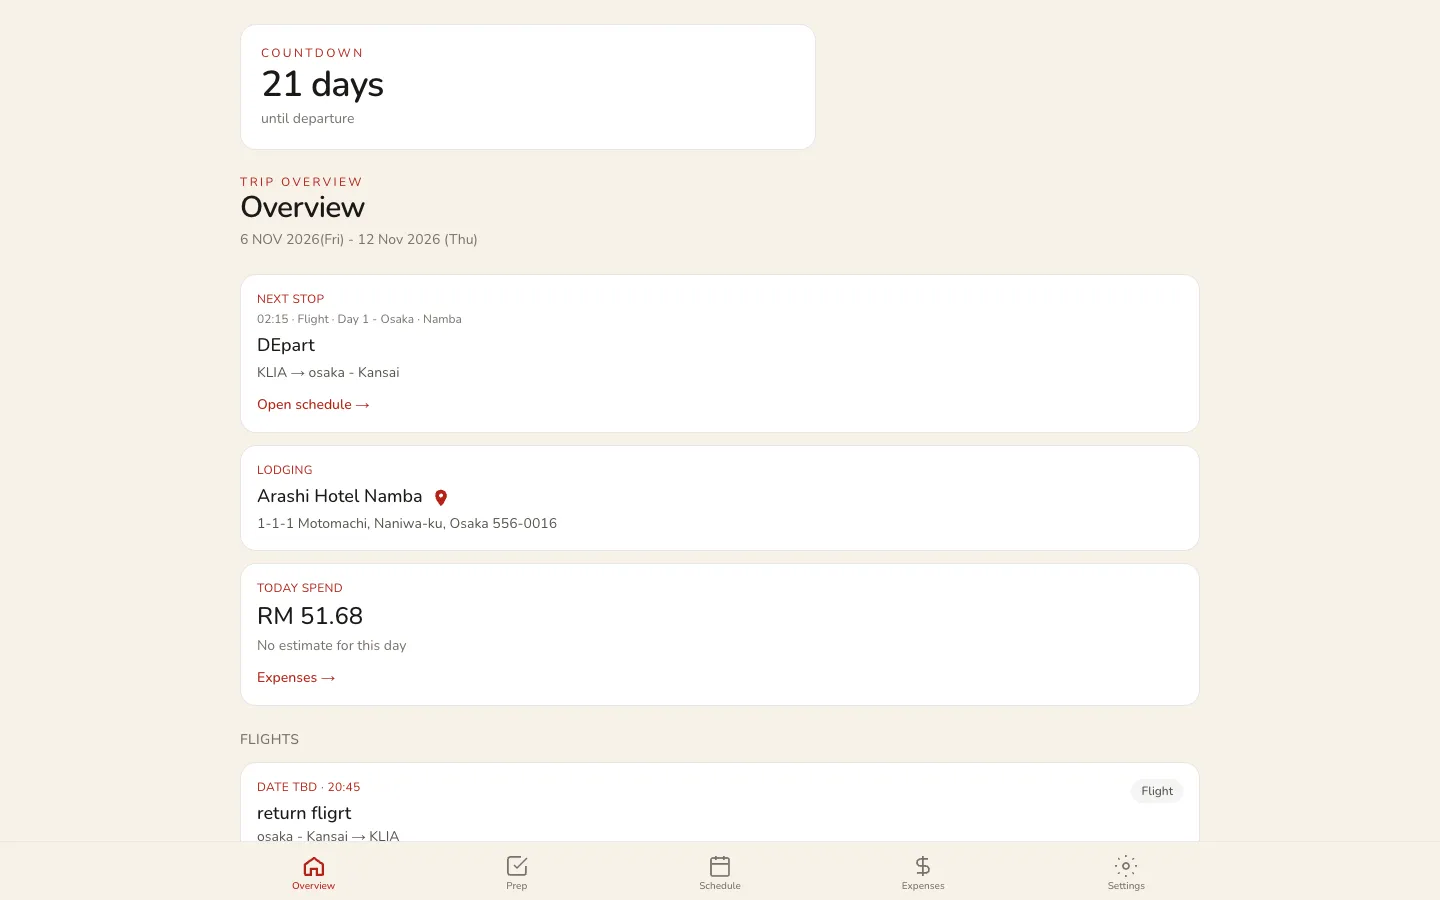
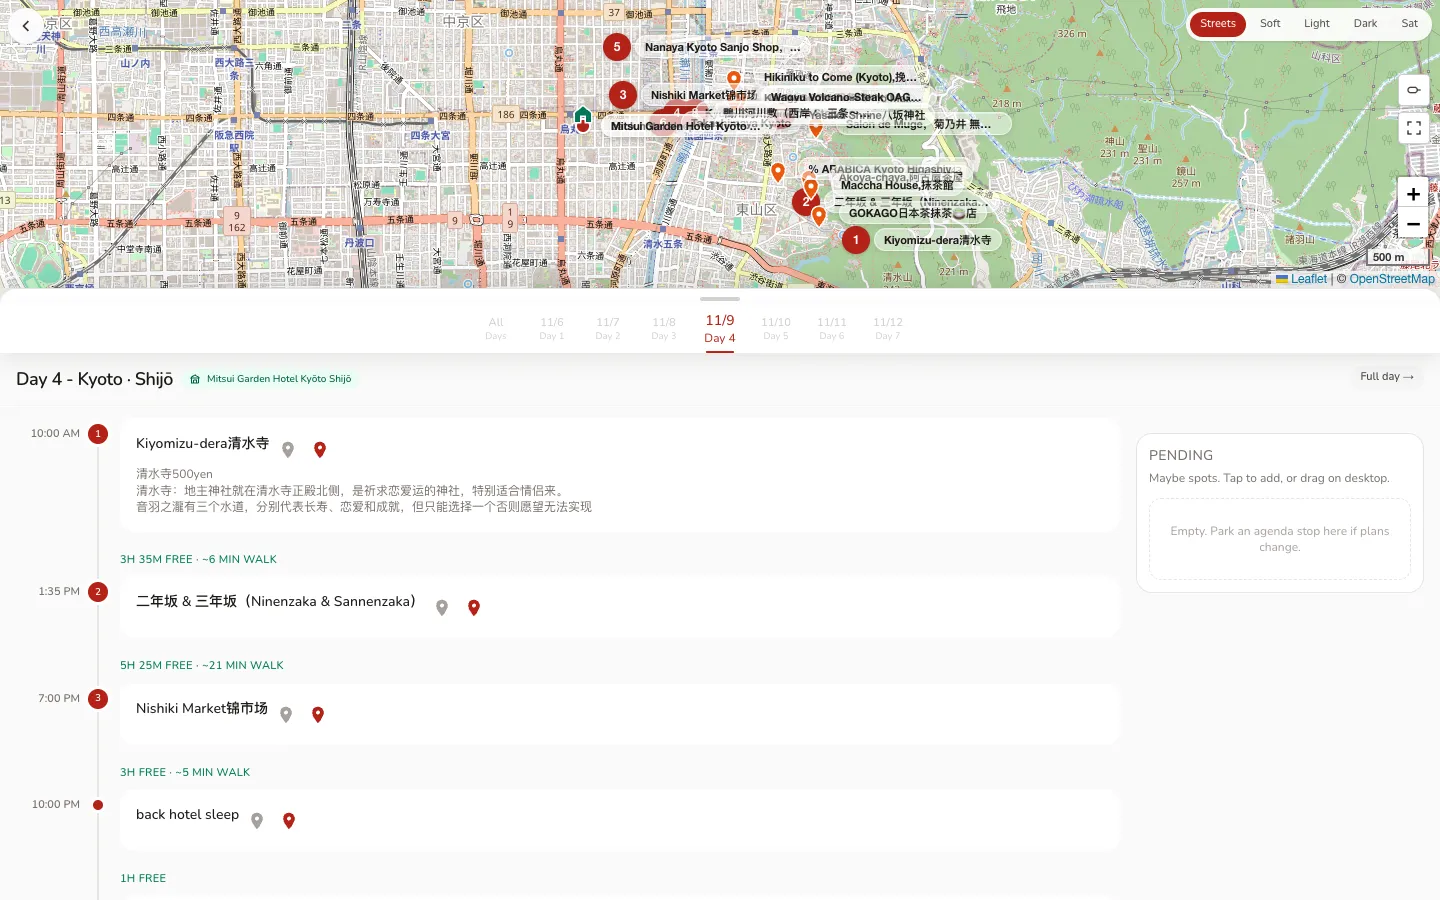
Japan Trip: cover from the Kyoto schedule day, popup opens the schedule; add per-project shotUrl

diff --git a/data/demos.ts b/data/demos.ts
@@ -5,6 +5,8 @@ export type Demo = {
   thumb: string
   /** Real 1440x900 screenshot from scripts/shoot-thumbs.mjs. */
   shot?: string
+  /** Page to capture for `shot` when it differs from embedUrl (scripts/shoot-thumbs.mjs). */
+  shotUrl?: string
   embedUrl: string
   liveUrl?: string
   repoUrl?: string
@@ -78,7 +80,9 @@ export const demos: Demo[] = [
     slug: 'japan-trip',
     thumb: '/thumbs/japan-trip.svg',
     shot: '/thumbs/japan-trip.webp',
-    embedUrl: 'https://japan-trip-pi-indol.vercel.app/',
+    embedUrl: 'https://japan-trip-pi-indol.vercel.app/schedule',
+    liveUrl: 'https://japan-trip-pi-indol.vercel.app/',
+    shotUrl: 'https://japan-trip-pi-indol.vercel.app/schedule?day=3cbb5fd4-cdf7-8174-863b-e28a86c1c109',
     repoUrl: 'https://github.com/noowxela/japan-trip',
     blurb: 'A mobile-first trip itinerary app with Notion as the source of truth.',
     tags: ['Next.js', 'Notion'],
